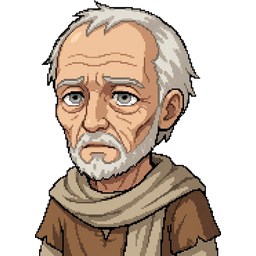
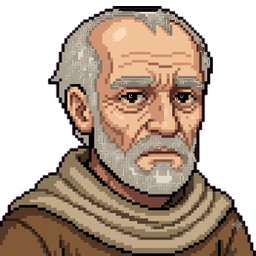
anciao: sprite e retrato, e recorte por chroma key
CHROMA KEY
Os prompts passaram a pedir fundo magenta puro (#FF00FF) em vez de branco, e
o pipeline ganhou o caminho correspondente. E muito mais confiavel: o magenta
nao existe em nenhuma paleta do jogo, entao nao ha risco de comer detalhe
claro do desenho -- que era a origem das tres rodadas de franja branca.

Tres etapas: corte por distancia ao magenta (a borda tem anti-aliasing e e
mistura, nao magenta puro), despill para tirar o roxo que mancha os pixels de
borda, e maior_componente, que fica so com a maior mancha opaca e assim
descarta o carimbo em estrela do gerador sem precisar cacar a posicao dele.

Resultado: 1 e 3 pixels de magenta residual em 5 mil e 42 mil opacos.

ANCIAO
Sprite de mundo com 112px, contra os 128px do protagonista -- idoso e
levemente curvado, e a diferenca de porte se le sem texto. Retrato gerado a
partir do sprite como referencia, entao os dois leem como a mesma pessoa:
careca no topo, cabelo branco so nas laterais, barba curta, olhos escuros,
manta bege sobre tunica marrom.

O NPC deixa de usar o placeholder. A preview da fase passa a inclui-lo.

diff --git a/src/scenes/PreloadScene.js b/src/scenes/PreloadScene.js
@@ -34,9 +34,7 @@ export default class PreloadScene extends Phaser.Scene {
     );
 
     this.load.image('retrato_anciao', 'assets/npcs/retrato_anciao.png');
-    // Sprite de corpo inteiro do Ancião ainda não existe; o NPC cai num
-    // placeholder até ele chegar. Descomentar junto com o asset:
-    // this.load.image('anciao', 'assets/npcs/anciao.png');
+    this.load.image('anciao', 'assets/npcs/anciao.png');
 
     ['cronica_vila_01', 'cronica_vila_02'].forEach((k) =>
       this.load.image(k, `assets/cronicas/${k}.png`),

diff --git a/tools/build_assets.py b/tools/build_assets.py
@@ -89,6 +89,69 @@ def despeckle_white(rgba, thresh=190):
     return out
 
 
+CHROMA = (255, 0, 255)   # magenta puro, cor que não existe na paleta do jogo
+
+
+def alpha_from_chroma(rgb, tol=70):
+    """Fundo magenta -> canal alfa.
+
+    Muito mais confiável que recortar branco: o magenta não aparece em nenhuma
+    paleta do jogo, então não há risco de comer detalhe claro do desenho. Os
+    prompts pedem esse fundo desde que descobrimos o quanto o recorte por
+    branco custava em franja.
+
+    O corte é por distância ao magenta em vez de igualdade exata, porque a
+    borda tem anti-aliasing: ali o pixel é uma mistura de magenta e desenho.
+    """
+    v = rgb.astype(np.int16)
+    dist = np.sqrt(((v - np.array(CHROMA)) ** 2).sum(axis=2))
+    return np.where(dist <= tol, 0, 255).astype(np.uint8)
+
+
+def despill(rgba, tol=70):
+    """Tira o magenta que resta manchando os pixels de borda.
+
+    Um pixel semi-coberto pelo fundo fica arroxeado. Como o desenho não tem
+    magenta, dá para detectar pelo excesso simultâneo de vermelho e azul sobre
+    o verde e rebaixar os dois ao nível do canal verde.
+    """
+    out = rgba.copy()
+    r, g, b = (out[:, :, i].astype(np.int16) for i in range(3))
+    manchado = (out[:, :, 3] > 0) & (r > g + 18) & (b > g + 18)
+    for canal in (0, 2):
+        v = out[:, :, canal].astype(np.int16)
+        out[:, :, canal] = np.where(manchado, np.minimum(v, g + 18), v).astype(np.uint8)
+    return out
+
+
+def maior_componente(alpha):
+    """Mantém só a maior mancha opaca, descartando sujeira solta.
+
+    Os geradores carimbam um brilho em estrela num canto. Quando ele cai sobre
+    o fundo, sobra como um respingo opaco isolado que estraga o recorte —
+    ficar com o maior componente resolve sem precisar caçar a posição dele.
+    """
+    lbl, n = ndimage.label(alpha > 0)
+    if n <= 1:
+        return alpha
+    tamanhos = ndimage.sum(alpha > 0, lbl, range(1, n + 1))
+    maior = int(np.argmax(tamanhos)) + 1
+    return np.where(lbl == maior, alpha, 0).astype(np.uint8)
+
+
+def clean_chroma(path, height, isolar=True):
+    """Recorta uma arte de fundo magenta e reduz para a altura pedida."""
+    rgb = np.array(Image.open(path).convert("RGB"))
+    alpha = alpha_from_chroma(rgb)
+    if isolar:
+        alpha = maior_componente(alpha)
+
+    ys, xs = np.where(alpha > 0)
+    rgba = np.dstack([rgb, alpha])[ys.min():ys.max() + 1, xs.min():xs.max() + 1]
+    rgba = bleed_alpha(despill(rgba))
+    return to_height(Image.fromarray(rgba, "RGBA"), height)
+
+
 def clean(path, enclosed_limit=200, drop_pale_shadow=False, despeckle=True):
     """Remove o fundo branco de uma arte solta e recorta ao conteúdo.
 
@@ -231,7 +294,14 @@ SRC = {
     "icones":         "9142f4b57d0622b390d94b9b5f12d33fb1762fa3.png",
     "cronica_01":     "059e23fb34a5471bf16ef2698cb9c76172cf6f4d.png",
     "cronica_02":     "279bf8ab41249c814bfaeaa346011de471da56a4.png",
+    # Fundo magenta (#FF00FF), não branco — ver alpha_from_chroma.
+    "anciao_sprite":  "7aa3611c5f9df8a0feccb532c3d5280207aac292.png",
+    "anciao_retrato": "58f967b70814ed53d3f973247fefd899687a4d00.png",
 }
+
+# Altura do Ancião em tela. Menor que os 128px do protagonista: ele é idoso e
+# levemente curvado, e a diferença de porte se lê sem precisar de texto.
+ANCIAO_HEIGHT = 112
 
 # Altura de exibição de cada prop, em px. Derivada do TILE de 64 e da altura do
 # personagem (128px = 2 tiles), para que a escala relativa faça sentido em tela.
@@ -527,8 +597,10 @@ def build_ui_and_narrative():
             OUT / "ui" / "icons" / f"{name}.png"
         )
 
-    # Retrato ancorado na base: o busto encosta no rodapé da caixa de diálogo.
-    _fit(clean(UPLOADS / SRC["retrato_anciao"], enclosed_limit=300), 256,
+    # Ancião: sprite de mundo e retrato de diálogo, ambos com fundo magenta.
+    clean_chroma(UPLOADS / SRC["anciao_sprite"], ANCIAO_HEIGHT).save(
+        OUT / "npcs" / "anciao.png")
+    _fit(clean_chroma(UPLOADS / SRC["anciao_retrato"], 256), 256,
          anchor_bottom=True).save(OUT / "npcs" / "retrato_anciao.png")
 
     # Crônicas: ilustração de fundo inteiro, sem recorte nem transparência.

diff --git a/tools/preview_fase.py b/tools/preview_fase.py
@@ -67,6 +67,7 @@ def read_layout():
         "platforms": pairs("PLATFORMS"),
         "spawn": num("SPAWN_TILE"),
         "dummy": num("TRAINING_DUMMY_TILE"),
+        "anciao": num("ANCIAO_TILE"),
         "bg": objs("BACKGROUND_PROPS"),
         "fg": objs("FOREGROUND_PROPS"),
         "fences": objs("FENCES"),
@@ -151,6 +152,10 @@ def build(L):
     dummy = Image.open(ASSETS / "props" / "alvo_treino.png")
     canvas.alpha_composite(dummy, (int(L["dummy"] * TILE - dummy.width / 2),
                                    GY + GROUND_INSET - dummy.height))
+
+    anciao = Image.open(ASSETS / "npcs" / "anciao.png")
+    canvas.alpha_composite(anciao, (int(L["anciao"] * TILE - anciao.width / 2),
+                                    GY + GROUND_INSET - anciao.height))
 
     player = Image.open(ASSETS / "sprites" / "protagonista.png").crop((0, 0, 224, 224))
     canvas.alpha_composite(player, (L["spawn"] * TILE - 112, GY + GROUND_INSET - 224))
